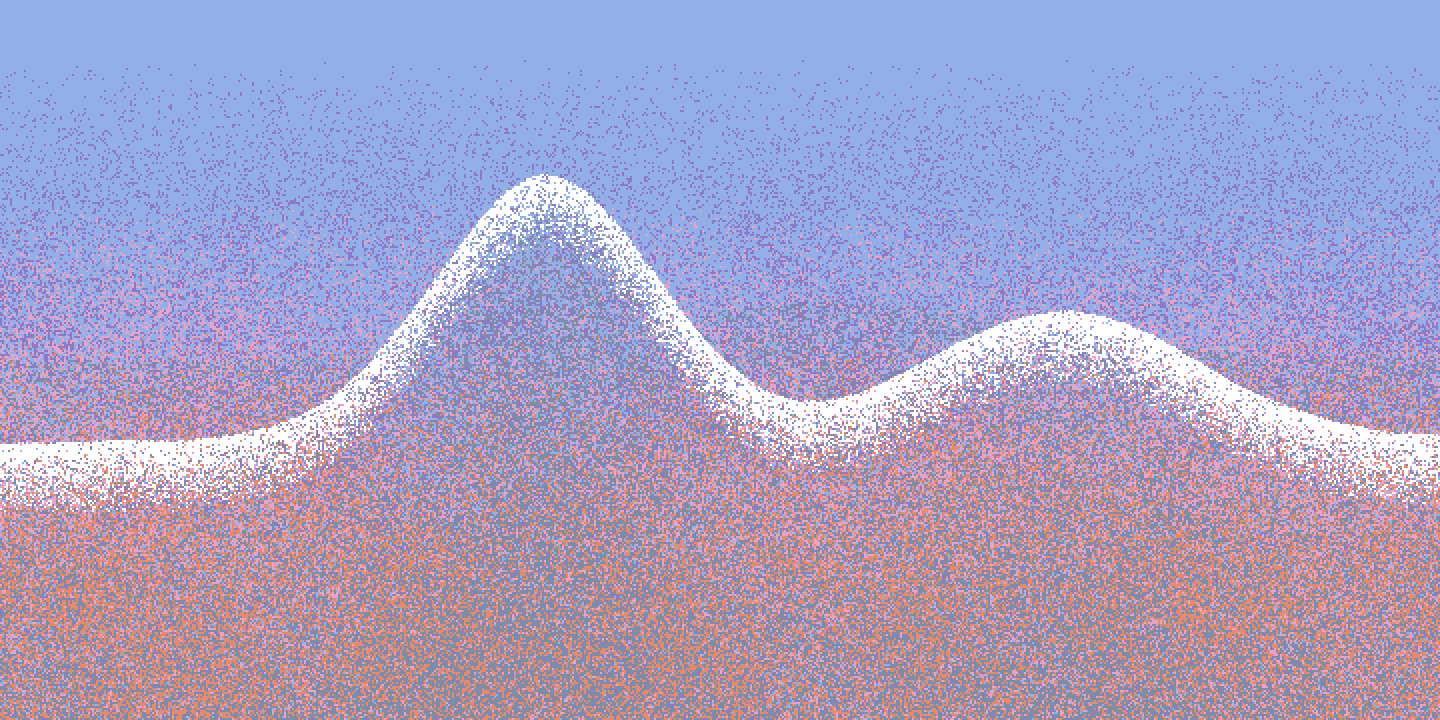
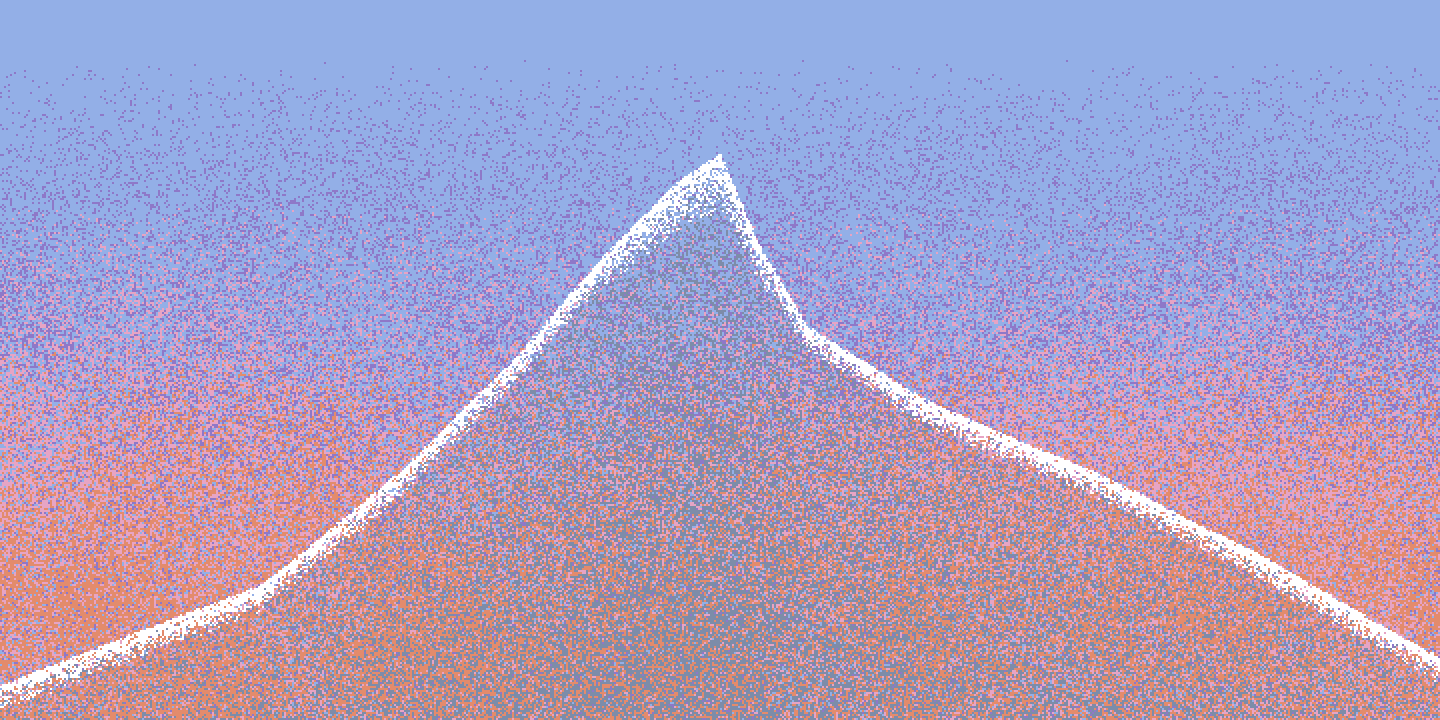
Use the Matterhorn outline for the mountain plate.
The Zermatt silhouette: a long ridge, a horn, and a steep face. The dusk stipple and the white logo stay.

Changed region(s): [[0.0, 0.2139, 1.0, 1.0], [0.5312, 0.7028, 0.5625, 0.7333]]

diff --git a/design-language/instrument-calm/assets/ambient-dither/make_ambient.py b/design-language/instrument-calm/assets/ambient-dither/make_ambient.py
@@ -43,21 +43,21 @@ def paint(field, layers):
 def mountain():
     xn, yn = grids()
     n = smooth_noise((H, W), scale=280, seed=51, octaves=4)
-    # One high peak, one shoulder. yn is 0 at the top, so a smaller ridge is taller.
-    ridge = (
-        0.62
-        - 0.36 * np.exp(-((xn - 0.38) ** 2) / 0.012)
-        - 0.18 * np.exp(-((xn - 0.74) ** 2) / 0.018)
-        + (n - 0.5) * 0.03
-    )
-    far = 0.50 - 0.08 * np.exp(-((xn - 0.58) ** 2) / 0.04)
+    # Matterhorn, the Zermatt side. Long left ridge, a horn, then a steep right face.
+    # Smaller y is higher. The peak sits under the logo, inside the square crop.
+    xs = np.array([0.00, 0.18, 0.28, 0.36, 0.42, 0.47, 0.50, 0.525, 0.56, 0.64, 0.76, 0.88, 1.00])
+    ys = np.array([0.96, 0.82, 0.66, 0.50, 0.36, 0.26, 0.22, 0.34, 0.46, 0.56, 0.66, 0.78, 0.92])
+    ridge = np.interp(xn[0], xs, ys)
+    ridge = np.broadcast_to(ridge, (H, W)).astype(np.float32).copy()
+    ridge += (n - 0.5) * 0.012
     inside = yn > ridge
-    far_in = (yn > far) & ~inside
-    depth = np.clip((yn - ridge) * 1.8, 0, 1)
-    slate = np.where(inside, (0.22 + 0.40 * depth) * (0.75 + 0.25 * n), 0)
-    slate = np.maximum(slate, np.where(far_in, 0.16 + 0.08 * n, 0))
-    cap = np.clip((ridge + 0.09 - yn) / 0.09, 0, 1)
-    snow = np.where(yn > ridge - 0.012, cap * (0.75 + 0.25 * n), 0)
+    depth = np.clip((yn - ridge) * 1.6, 0, 1)
+    slate = np.where(inside, (0.22 + 0.42 * depth) * (0.75 + 0.25 * n), 0)
+    # Snow sits thicker on the horn than on the lower ridges.
+    horn = np.clip((0.40 - ridge) / 0.32, 0, 1)
+    thick = 0.03 + 0.08 * horn
+    cap = np.clip((ridge + thick - yn) / thick, 0, 1)
+    snow = np.where(yn > ridge - 0.008, cap * (0.8 + 0.2 * n), 0)
     # The sky is stipple, not a wash. Blue field, then purple, pink, and orange
     # dots that get denser toward the horizon.
     grain = smooth_noise((H, W), scale=90, seed=57, octaves=3)
